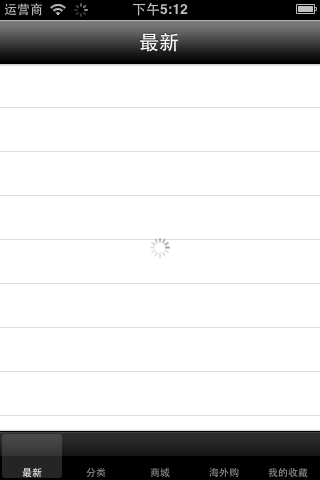
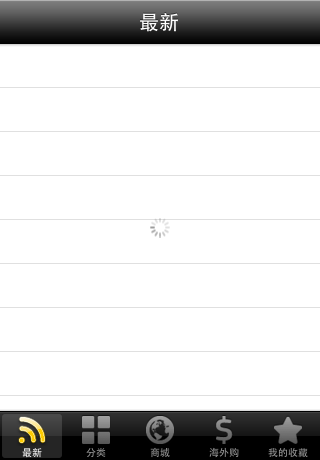
alpha

Changed region(s): [[0.0, 0.0, 1.0, 0.1522], [0.0, 0.8826, 1.0, 1.0], [0.4688, 0.4565, 0.5312, 0.5174]]

diff --git a/Resources/alloy/controllers/index.js b/Resources/alloy/controllers/index.js
@@ -6,16 +6,16 @@ function Controller() {
     var exports = {};
     $.__views.tabGroup = Ti.UI.createTabGroup({
         backgroundColor: "#fff",
-        barColor: "#ff6f27",
-        activeTabIconTint: "#ff6600",
-        tabsBackgroundColor: "#ff6f27",
+        activeTabIconTint: "#ffcc00",
+        barColor: "#000",
+        tabsBackgroundColor: "#000",
         id: "tabGroup"
     });
     $.__views.__alloyId1 = Alloy.createController("latest", {
         id: "__alloyId1"
     });
     $.__views.tab1 = Ti.UI.createTab({
-        icon: "appicon.png",
+        icon: "rss.png",
         window: $.__views.__alloyId1.getViewEx({
             recurse: true
         }),
@@ -27,6 +27,7 @@ function Controller() {
         id: "__alloyId4"
     });
     $.__views.tab2 = Ti.UI.createTab({
+        icon: "grid.png",
         window: $.__views.__alloyId4.getViewEx({
             recurse: true
         }),
@@ -38,6 +39,7 @@ function Controller() {
         id: "__alloyId6"
     });
     $.__views.tab3 = Ti.UI.createTab({
+        icon: "globe.png",
         window: $.__views.__alloyId6.getViewEx({
             recurse: true
         }),
@@ -48,18 +50,20 @@ function Controller() {
     $.__views.__alloyId8 = Alloy.createController("oversea", {
         id: "__alloyId8"
     });
-    $.__views.tab5 = Ti.UI.createTab({
+    $.__views.tab4 = Ti.UI.createTab({
+        icon: "dollar.png",
         window: $.__views.__alloyId8.getViewEx({
             recurse: true
         }),
-        id: "tab5",
+        id: "tab4",
         title: "海外购"
     });
-    $.__views.tabGroup.addTab($.__views.tab5);
+    $.__views.tabGroup.addTab($.__views.tab4);
     $.__views.__alloyId10 = Alloy.createController("myFav", {
         id: "__alloyId10"
     });
     $.__views.tab5 = Ti.UI.createTab({
+        icon: "star.png",
         window: $.__views.__alloyId10.getViewEx({
             recurse: true
         }),
